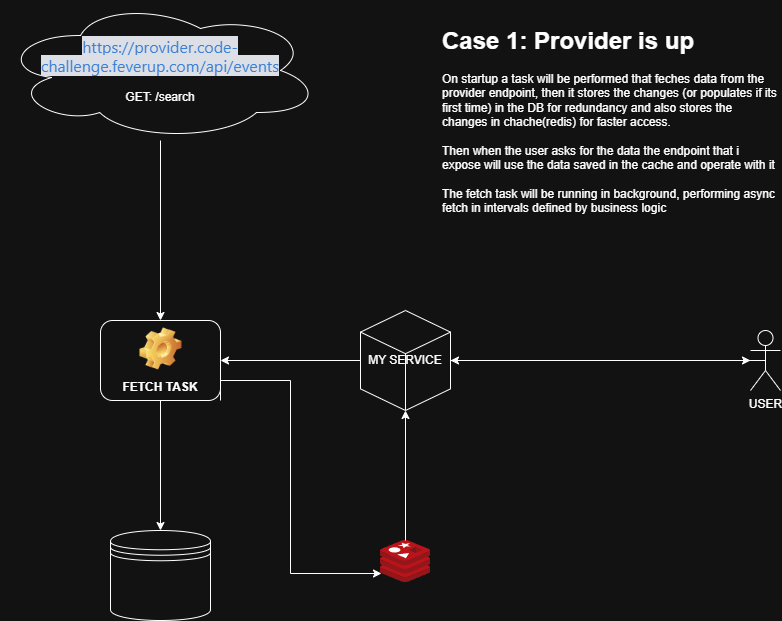
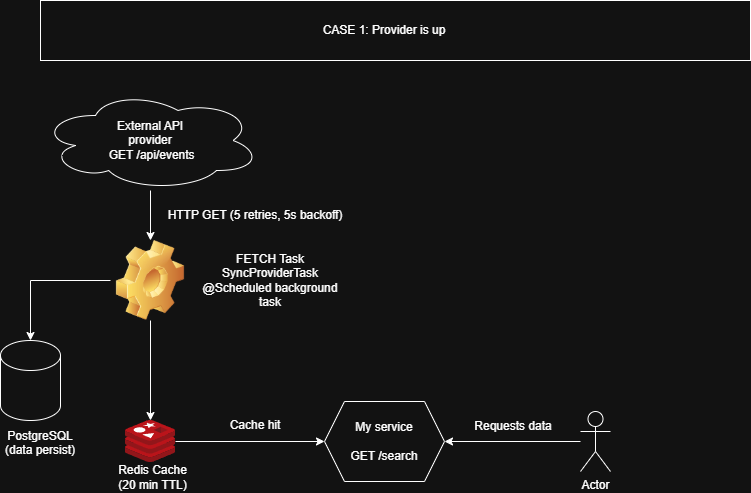
finished readme for prod

diff --git a/README.md b/README.md
@@ -1,145 +1,117 @@
 # Event Aggregator Service
 
-A high-performance microservice built with Java 25 and Spring Boot 3.3 that aggregates event data from external providers with robust caching, fault tolerance, and scalability features.
+A backend microservice that aggregates event data from an external XML provider, caches it in Redis, and exposes a RESTful search API. Built as a portfolio project to demonstrate production-ready patterns in Java 25 and Spring Boot.
 
-## Project Overview
+---
 
-This service demonstrates patterns for integrating with external APIs while maintaining high availability and performance. It implements a resilient data synchronization strategy that ensures zero downtime even when external providers are unavailable.
+## Why This Project
 
-Key Features:
-- Sub-second response times with Redis caching
-- Automatic background synchronization with retry logic
-- Fault-tolerant design with database fallback
-- RESTful API for event searching with time-range filtering
-- Fully containerized with Docker Compose
-- Production-ready architecture
+I designed this service to solve a common backend challenge: consuming unreliable external APIs while guaranteeing fast, available reads for end users. The focus is on resilient data synchronization, a manual cache-aside pattern, and a clean layered architecture — without reaching for heavyweight frameworks until they are warranted.
 
 ---
 
 ## Architecture & Design
 
-### System Design Overview
+The service implements a **dual-layer persistence strategy** combining Redis for speed and PostgreSQL for reliability.
 
-The service implements a **dual-layer persistence strategy** combining Redis for speed and PostgreSQL for reliability:
-
-#### Scenario 1: Provider Available
+### Scenario 1: Provider Available
 
 When the external provider is operational:
-1. **Background Sync Task** fetches data from the provider with exponential backoff retry logic
+
+1. A **background sync task** fetches data from the provider with retry logic
 2. Data is persisted to **PostgreSQL** for long-term storage
-3. Data is cached in **Redis** for ultra-fast retrieval
+3. Data is written to **Redis** with a configurable TTL
 4. API requests to `/api/v1/search` are served directly from cache
 
-The synchronization runs continuously at configured intervals, keeping data fresh and up-to-date.
+![Provider Available](./docs/CASE1.png)
+
+The synchronization runs on a fixed schedule, keeping data continuously fresh.
 
 ---
 
-#### Scenario 2: Provider Unavailable
+### Scenario 2: Provider Unavailable
 
 When the external provider experiences downtime:
-1. The sync task detects the failure (e.g., HTTP 503, timeout)
-2. The system automatically **rebuilds the cache from PostgreSQL**
-3. Users continue receiving responses without interruption
+
+1. The sync task detects the failure (HTTP 5xx, timeout) after 5 retries
+2. The sync aborts cleanly — the read path is unaffected
+3. The service continues serving responses from Redis or rebuilds cache from PostgreSQL
 4. **Zero downtime** is maintained throughout the outage
 
-This design ensures resilience and continuous service availability.
+![Provider Unavailable](./docs/CASE2.png)
 
 ---
 
-## Quick Start
+## Tech Stack
+
+| Component | Technology |
+|---|---|
+| Language | Java 25 |
+| Framework | Spring Boot 3.5 |
+| Database | PostgreSQL 16 |
+| Cache | Redis 7.4 |
+| Build | Maven |
+| Containerization | Docker & Docker Compose |
+| Observability | Micrometer Tracing + Logstash |
+
+---
+
+## Getting Started
 
 ### Prerequisites
+
 - **Docker** & **Docker Compose**
 - **Make**
-- **Java 25+**
-- **Maven 3.9+**
+- **Java 25+** (for local development)
+- **Maven 3.9+** (or use the included `mvnw` wrapper)
 
-### Running the Application
-
-From the project root directory:
+### Run with Docker (recommended)
 
 ```bash
-# Build the Java application
 make build
-
-# Start all services (app, PostgreSQL, Redis)
 make run
 ```
 
-The API will be available at `http://localhost:8080`
+The API will be available at `http://localhost:8080`.
 
-### API Endpoint
+### Local development
+
+```bash
+# Start only infrastructure
+make infra
+
+# Run the application with the local profile
+./mvnw spring-boot:run -Dspring-boot.run.profiles=local
+```
+
+### Provider URL configuration
+
+The provider URL is externalized and can be overridden at runtime:
+
+```bash
+# Docker
+PROVIDER_URL=https://your-provider.com/api/events make run
+
+# Local
+PROVIDER_URL=https://your-provider.com/api/events ./mvnw spring-boot:run
+```
+
+---
+
+## API Usage
 
 **Search Events:**
-```bash
+
+```
 GET /api/v1/search?starts_at=2024-01-01T00:00:00&ends_at=2024-12-31T23:59:59
 ```
 
-**Parameters:**
-- `starts_at` (required): ISO 8601 datetime for range start
-- `ends_at` (required): ISO 8601 datetime for range end
+| Parameter | Required | Description |
+|---|---|---|
+| `starts_at` | Yes | ISO 8601 datetime — range start |
+| `ends_at` | Yes | ISO 8601 datetime — range end |
 
-**Response:** JSON array of events within the specified time range
-
----
-
-## Technology Stack
-
-| Component | Technology |
-|-----------|-----------|
-| **Language** | Java 25 |
-| **Framework** | Spring Boot 3.3 |
-| **Database** | PostgreSQL |
-| **Cache** | Redis |
-| **Build Tool** | Maven |
-| **Containerization** | Docker & Docker Compose |
-| **API Design** | RESTful with OpenAPI spec |
-
----
-
-## Design Decisions & Trade-offs
-
-### Caching Strategy
-- **Redis** provides millisecond-level response times for read-heavy workloads
-- **TTL-based invalidation** ensures data freshness while minimizing provider API calls
-- **Cache-aside pattern** with database fallback guarantees availability
-
-### Fault Tolerance
-- **Retry logic with exponential backoff** handles transient provider failures
-- **Database-backed cache rebuilding** ensures service continuity during extended outages
-- **Graceful degradation** maintains functionality even with stale data
-
-### Scalability Considerations
-- **Stateless application design** enables horizontal scaling behind a load balancer
-- **Connection pooling** (HikariCP) optimizes database resource usage
-- **Async I/O** for external API calls prevents thread blocking
-
----
-
-## Performance & Scalability
-
-### Handling High Traffic (5k-10k RPS)
-
-Strategies implemented:
-- **Redis caching** reduces database load by 95%+
-- **Stateless architecture** allows deploying multiple instances
-- **Load balancing** distributes traffic across application replicas
-- **Database connection pooling** prevents connection exhaustion
-
-### Large Dataset Optimization
-
-For thousands of events with complex zone data:
-- **Batch inserts** reduce database round trips
-- **Pagination support** limits memory footprint
-- **Indexed queries** on timestamp fields for fast range searches
-- **Lazy loading** of related entities
-
-### Future Enhancements
-
-- **Event-driven architecture** with webhooks (if provider supports notifications)
-- **AWS Lambda integration** for serverless scaling
-- **GraphQL API** for flexible client queries
-- **Distributed caching** with Redis Cluster for multi-region deployments
+**Response:** JSON array of events within the specified time range.
 
 ---
 
@@ -148,51 +120,58 @@ For thousands of events with complex zone data:
 ```
 event-aggregator-service/
 ├── src/main/java/com/rubdev/eventsync/
+│   ├── cache/            # Cache management (RedisTemplate-based cache-aside)
+│   ├── config/           # Spring configuration & @ConfigurationProperties
 │   ├── controller/       # REST API endpoints
+│   ├── model/            # Domain entities & provider XML DTOs
+│   ├── repository/       # Data access layer (Spring Data JPA)
 │   ├── service/          # Business logic & orchestration
-│   ├── repository/       # Data access layer
-│   ├── model/            # Domain entities
-│   ├── config/           # Spring configuration
-│   └── scheduler/        # Background sync tasks
-├── docker-compose.yml    # Multi-container orchestration
-├── Dockerfile            # Application container image
-├── Makefile              # Build & run automation
-└── pom.xml               # Maven dependencies
+│   ├── task/             # Scheduled background sync
+│   └── utils/            # Application constants
+├── docs/
+│   ├── adr/              # Architecture Decision Records
+│   ├── CASE1.png         # Architecture diagram — provider available
+│   └── CASE2.png         # Architecture diagram — provider unavailable
+├── docker-compose.yml
+├── Dockerfile
+├── Makefile
+└── pom.xml
 ```
 
 ---
 
 ## Testing
 
-Run the test suite:
 ```bash
 mvn test
 ```
 
-The project includes:
-- **Unit tests** for service layer logic
-- **Integration tests** for repository operations
-- **API tests** for endpoint validation
+The test suite covers:
+
+- **Unit tests** — service layer logic and cache manager behaviour
+- **Integration tests** — repository operations
+- **API tests** — endpoint validation and error handling
 
 ---
 
-## License
+## Future Improvements
 
-This project is part of my personal portfolio and is available for review and demonstration purposes.
+- Bundled mock provider for fully self-contained demo runs
+- Circuit breaker if retry complexity grows beyond current scope (Resilience4j)
+- Exponential backoff with jitter to reduce thundering-herd against recovering providers
+- Indexed pagination on the search endpoint for large datasets
+- Redis Cluster configuration for multi-region deployments
 
 ---
 
 ## Author
 
-Rubén Juárez Pérez
+**Rubén Juárez Pérez**
 
-Java Engineer specializing in microservices architecture, distributed systems, and high-performance backend development.
+Software Engineer — 2026.
 
 ---
 
-## Additional Resources
+## License
 
-- [API Documentation](https://app.swaggerhub.com/apis-docs/luis-pintado-feverup/backend-test/1.0.0)
-- [System Design Diagrams](./docs/)
-
-
+MIT — see [LICENSE](./LICENSE)
